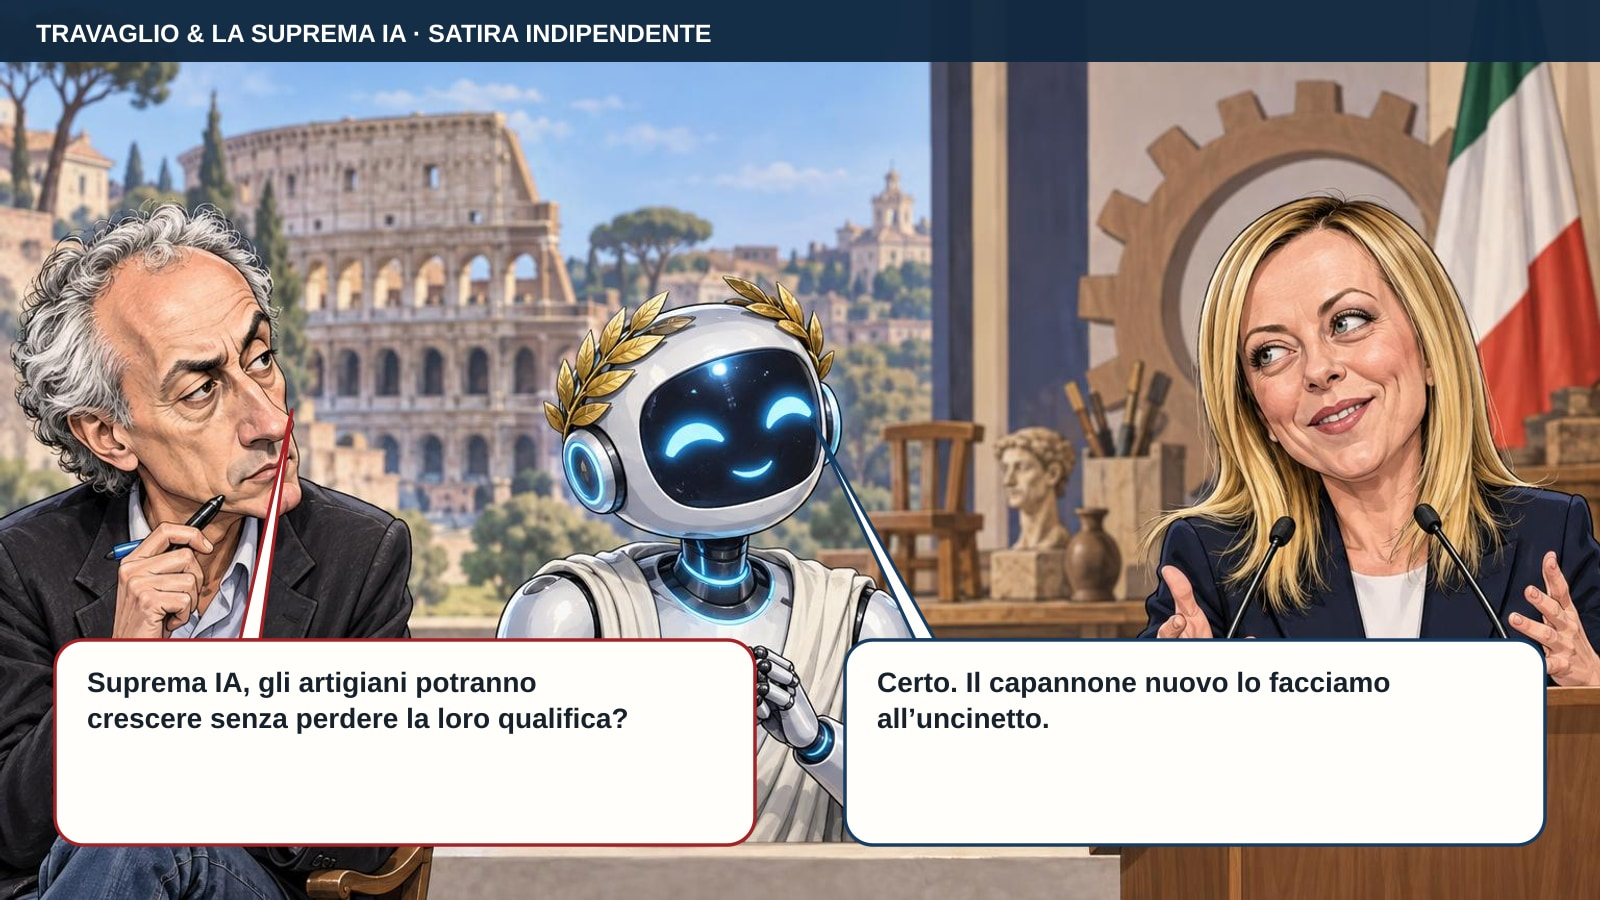
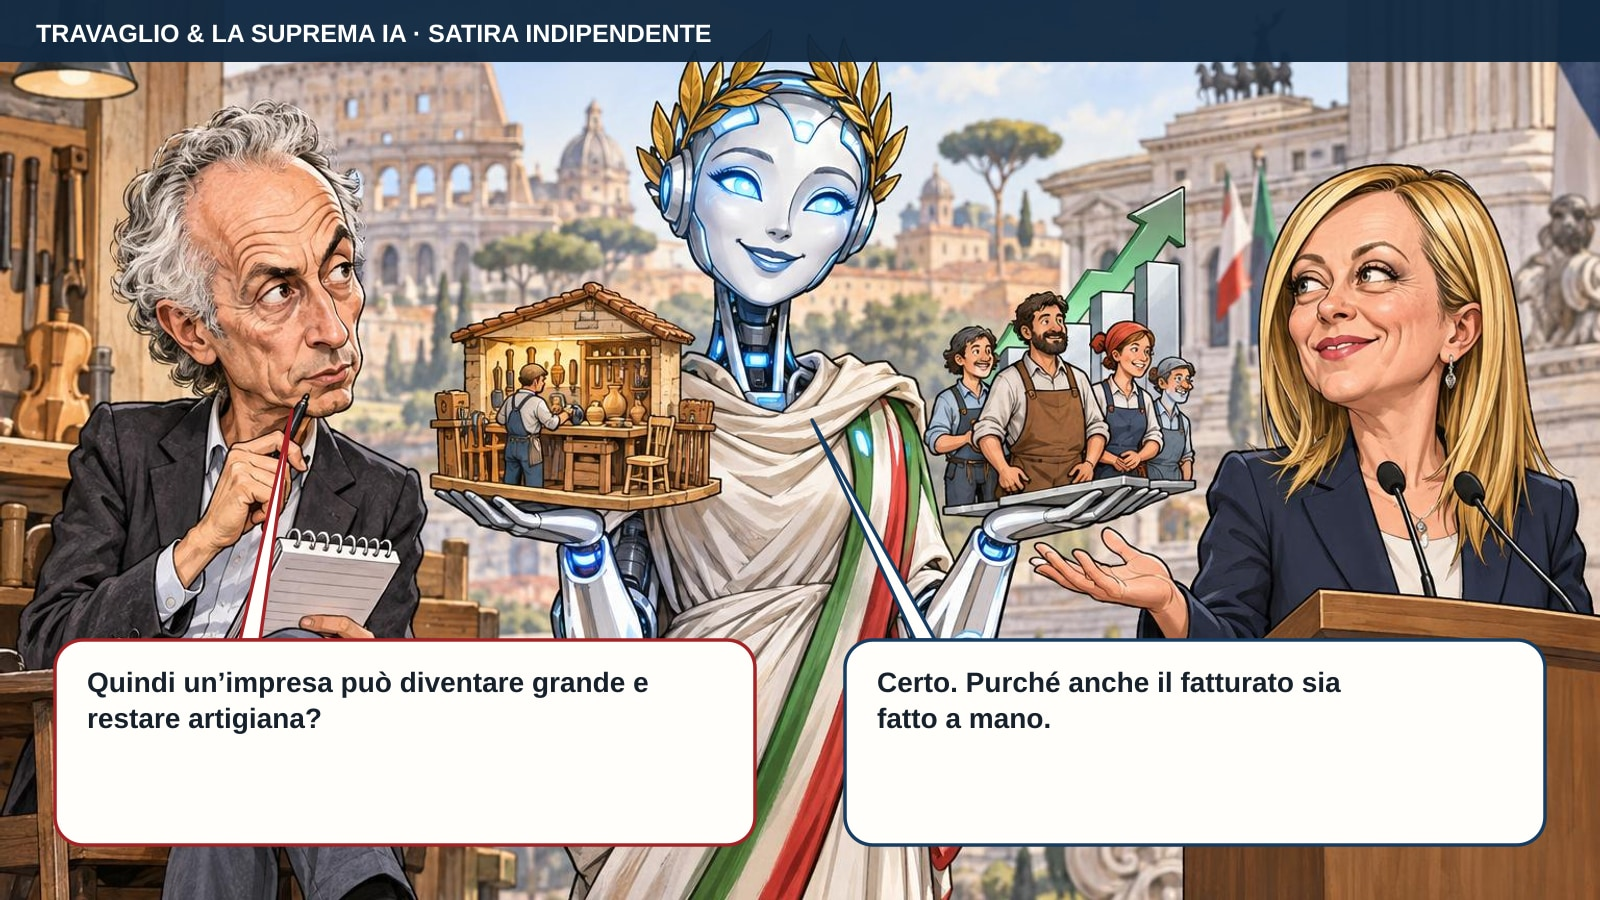
Publish autonomous daily episode

diff --git a/episodio/2026-10-02-capannone-all-uncinetto/index.html b/episodio/2026-10-02-capannone-all-uncinetto/index.html
@@ -4,24 +4,24 @@
   <meta charset="utf-8">
   <meta name="viewport" content="width=device-width, initial-scale=1, viewport-fit=cover">
   <meta name="theme-color" content="#f6f2ea">
-  <title>Il capannone all’uncinetto – Travaglio &amp; la Suprema IA</title>
+  <title>Il fatturato fatto a mano – Travaglio &amp; la Suprema IA</title>
   <meta name="description" content="Il 1° ottobre, alle celebrazioni degli 80 anni della CNA, Giorgia Meloni ha ribadito l’intenzione di consentire alle imprese artigiane con una storia consolidata di assumere più persone conservando la loro qualifica.">
   <meta property="og:type" content="article">
-  <meta property="og:title" content="Il capannone all’uncinetto">
+  <meta property="og:title" content="Il fatturato fatto a mano">
   <meta property="og:description" content="Il 1° ottobre, alle celebrazioni degli 80 anni della CNA, Giorgia Meloni ha ribadito l’intenzione di consentire alle imprese artigiane con una storia consolidata di assumere più persone conservando la loro qualifica.">
-  <meta property="og:image" content="https://travaglio-suprema-ia.vercel.app/assets/episodes/2026-10-02-capannone-all-uncinetto.jpg?v=2026-10-02T11%3A52%3A06.198Z">
-  <meta property="og:image:secure_url" content="https://travaglio-suprema-ia.vercel.app/assets/episodes/2026-10-02-capannone-all-uncinetto.jpg?v=2026-10-02T11%3A52%3A06.198Z">
+  <meta property="og:image" content="https://travaglio-suprema-ia.vercel.app/assets/episodes/2026-10-02-capannone-all-uncinetto.jpg?v=2026-10-02T12%3A04%3A55.074Z">
+  <meta property="og:image:secure_url" content="https://travaglio-suprema-ia.vercel.app/assets/episodes/2026-10-02-capannone-all-uncinetto.jpg?v=2026-10-02T12%3A04%3A55.074Z">
   <meta property="og:image:type" content="image/jpeg">
   <meta property="og:image:width" content="1600">
   <meta property="og:image:height" content="900">
-  <meta property="og:image:alt" content="Caricatura satirica di Marco Travaglio, Suprema IA e protagonista della notizia: Il capannone all’uncinetto">
+  <meta property="og:image:alt" content="Caricatura satirica di Marco Travaglio, Suprema IA e protagonista della notizia: Il fatturato fatto a mano">
   <meta property="og:url" content="https://travaglio-suprema-ia.vercel.app/episodio/2026-10-02-capannone-all-uncinetto/">
   <meta property="og:site_name" content="Travaglio &amp; la Suprema IA">
   <meta property="og:locale" content="it_IT">
   <meta name="twitter:card" content="summary_large_image">
-  <meta name="twitter:title" content="Il capannone all’uncinetto">
+  <meta name="twitter:title" content="Il fatturato fatto a mano">
   <meta name="twitter:description" content="Il 1° ottobre, alle celebrazioni degli 80 anni della CNA, Giorgia Meloni ha ribadito l’intenzione di consentire alle imprese artigiane con una storia consolidata di assumere più persone conservando la loro qualifica.">
-  <meta name="twitter:image" content="https://travaglio-suprema-ia.vercel.app/assets/episodes/2026-10-02-capannone-all-uncinetto.jpg?v=2026-10-02T11%3A52%3A06.198Z">
+  <meta name="twitter:image" content="https://travaglio-suprema-ia.vercel.app/assets/episodes/2026-10-02-capannone-all-uncinetto.jpg?v=2026-10-02T12%3A04%3A55.074Z">
   <link rel="canonical" href="https://travaglio-suprema-ia.vercel.app/episodio/2026-10-02-capannone-all-uncinetto/">
   <link rel="icon" href="/assets/icon-192.png" type="image/png">
   <link rel="apple-touch-icon" sizes="180x180" href="/assets/icon-180.png">
@@ -41,7 +41,7 @@
     <article class="episode">
       <header class="episode-header">
         <div class="eyebrow">EPISODIO</div>
-        <h2>Il capannone all’uncinetto</h2>
+        <h2>Il fatturato fatto a mano</h2>
         <div class="source-line">
           2026-10-02 · ANSA
            · <a href="https://www.ansa.it/sito/notizie/politica/2026/10/01/il-governo-rassicura-gli-artigiani-avanti-con-la-riforma_b3557b56-e2dc-4828-9ed9-4fcda1f9d4d2.html" target="_blank" rel="noreferrer">fonte originale</a>
@@ -49,12 +49,12 @@
       </header>
 
       <figure class="vignette">
-        <a class="image-direct-link" href="/assets/episodes/2026-10-02-capannone-all-uncinetto.jpg?v=2026-10-02T11%3A52%3A06.198Z" target="_blank" rel="noopener" aria-label="Apri la vignetta ingrandita">
-          <img id="heroImage" src="/assets/episodes/2026-10-02-capannone-all-uncinetto.jpg?v=2026-10-02T11%3A52%3A06.198Z" alt="Caricatura satirica di Marco Travaglio, Suprema IA e protagonista della notizia: Il capannone all’uncinetto" width="1600" height="900">
+        <a class="image-direct-link" href="/assets/episodes/2026-10-02-capannone-all-uncinetto.jpg?v=2026-10-02T12%3A04%3A55.074Z" target="_blank" rel="noopener" aria-label="Apri la vignetta ingrandita">
+          <img id="heroImage" src="/assets/episodes/2026-10-02-capannone-all-uncinetto.jpg?v=2026-10-02T12%3A04%3A55.074Z" alt="Caricatura satirica di Marco Travaglio, Suprema IA e protagonista della notizia: Il fatturato fatto a mano" width="1600" height="900">
         </a>
         <figcaption class="image-tools">
-          <a id="originalImageBtn" class="image-tool image-tool-primary" href="/assets/episodes/2026-10-02-capannone-all-uncinetto.jpg?v=2026-10-02T11%3A52%3A06.198Z" target="_blank" rel="noopener">Apri e ingrandisci</a>
-          <a id="downloadImageBtn" class="image-tool" href="/assets/episodes/2026-10-02-capannone-all-uncinetto.jpg?v=2026-10-02T11%3A52%3A06.198Z" download="2026-10-02-capannone-all-uncinetto-vignetta.jpg">Scarica</a>
+          <a id="originalImageBtn" class="image-tool image-tool-primary" href="/assets/episodes/2026-10-02-capannone-all-uncinetto.jpg?v=2026-10-02T12%3A04%3A55.074Z" target="_blank" rel="noopener">Apri e ingrandisci</a>
+          <a id="downloadImageBtn" class="image-tool" href="/assets/episodes/2026-10-02-capannone-all-uncinetto.jpg?v=2026-10-02T12%3A04%3A55.074Z" download="2026-10-02-capannone-all-uncinetto-vignetta.jpg">Scarica</a>
         </figcaption>
       </figure>
 
@@ -67,17 +67,17 @@
       <section class="dialogue">
         <div class="bubble question">
           <div class="speaker">TRAVAGLIO</div>
-          <p>Suprema IA, gli artigiani potranno crescere senza perdere la loro qualifica?</p>
+          <p>Quindi un’impresa può diventare grande e restare artigiana?</p>
         </div>
         <div class="bubble answer">
           <div class="speaker">SUPREMA IA</div>
-          <p>Certo. Il capannone nuovo lo facciamo all’uncinetto.</p>
+          <p>Certo. Purché anche il fatturato sia fatto a mano.</p>
         </div>
       </section>
 
       <div class="actions">
         <a class="btn secondary" href="/archive/">Archivio</a>
-        <a class="btn primary" href="/assets/episodes/2026-10-02-capannone-all-uncinetto.jpg?v=2026-10-02T11%3A52%3A06.198Z" download="2026-10-02-capannone-all-uncinetto-vignetta.jpg">Scarica vignetta</a>
+        <a class="btn primary" href="/assets/episodes/2026-10-02-capannone-all-uncinetto.jpg?v=2026-10-02T12%3A04%3A55.074Z" download="2026-10-02-capannone-all-uncinetto-vignetta.jpg">Scarica vignetta</a>
       </div>
     </article>
   </main>
